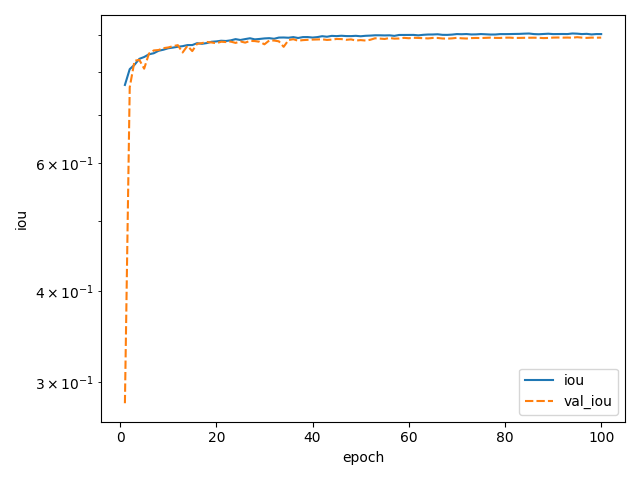
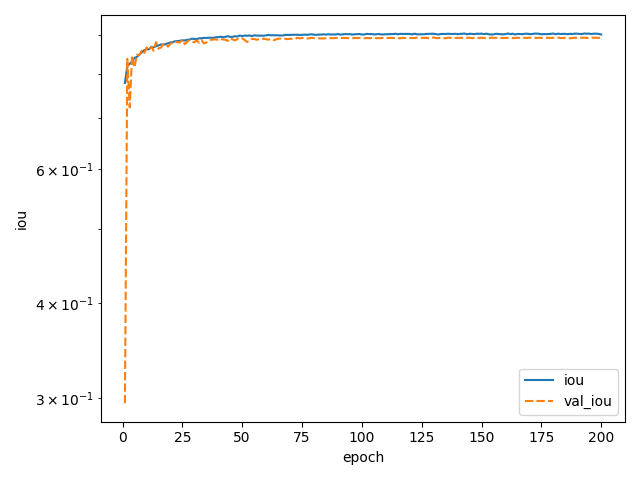
final test run for att squeeze unet

diff --git a/utils.py b/utils.py
@@ -109,3 +109,5 @@ def cmp_plot_history(names : "list[str]", plot_val=True):
         plt.tight_layout()
         plt.savefig(f"figures/cmp_{resulting_name}/{key}")
         plt.figure()
+
+plot_history('att_squeeze_unet')

diff --git a/main.py b/main.py
@@ -8,7 +8,5 @@ if __name__ == '__main__':
     d = Dataset(p)
     m = ATTSqueezeUNet(p)
     m.train(d,
-        include_val=True,
         save_history=False,
-    )
-    m.test(d)
+        include_val=True)
